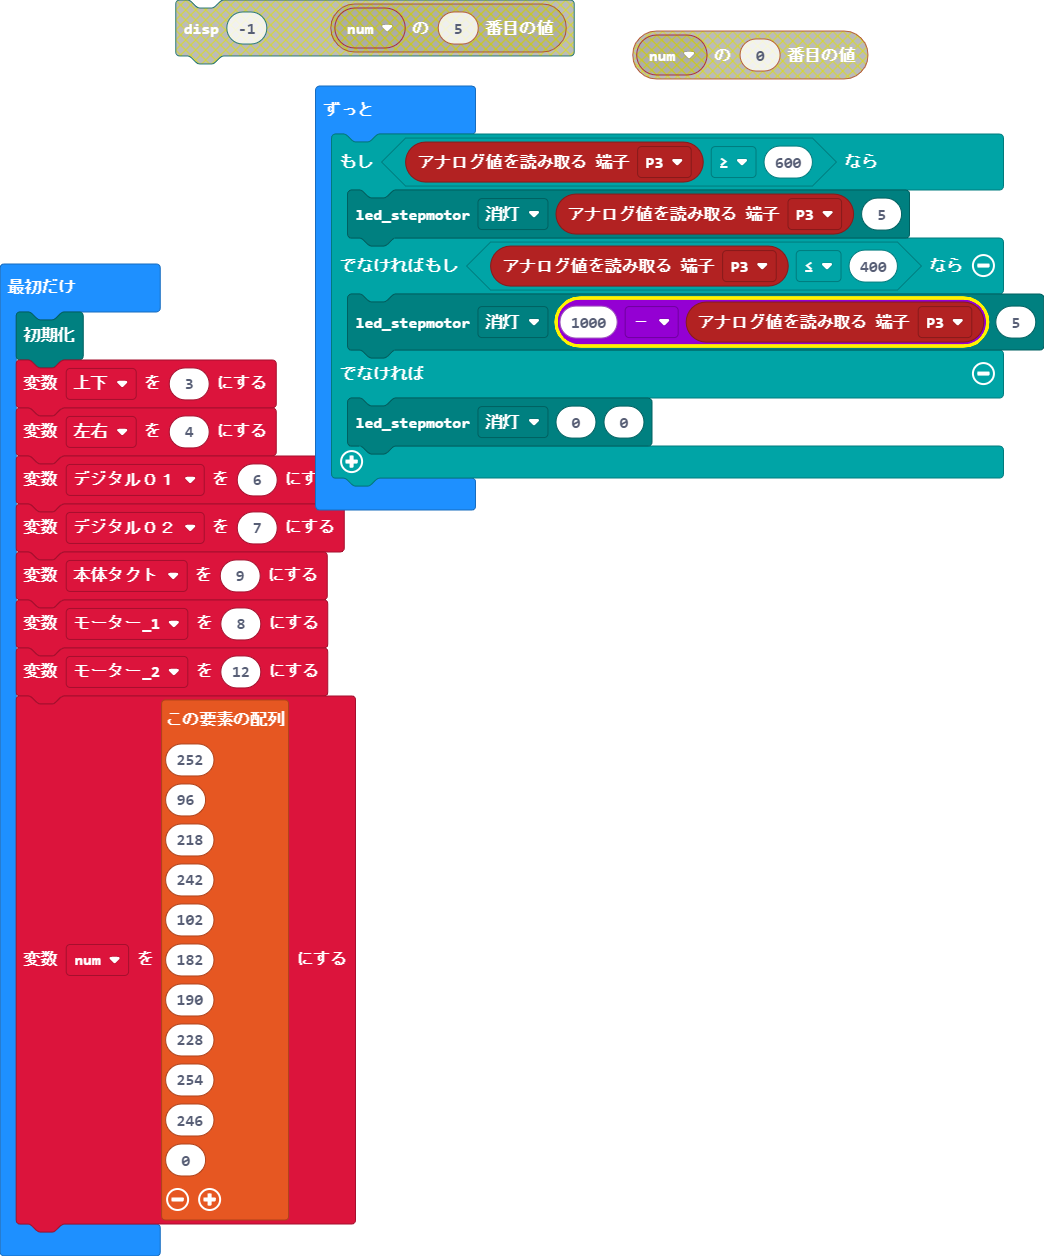
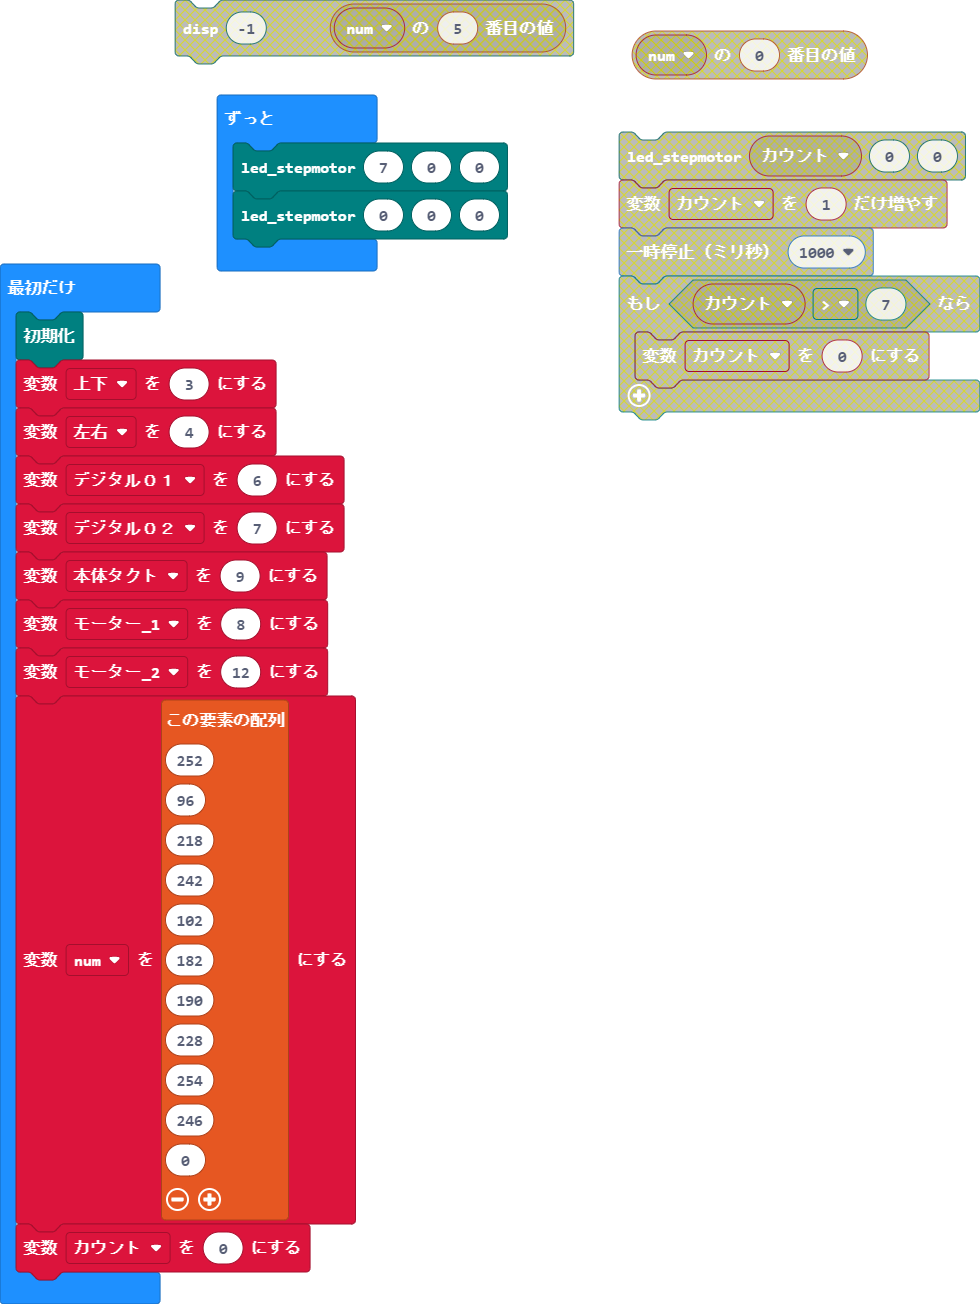
近畿大会用にアレンジ

Changed region(s): [[0.0, 0.0, 1.0, 1.0]]

diff --git a/custom.ts b/custom.ts
@@ -3,69 +3,7 @@
 * このファイルを使って、独自の関数やブロックを定義してください。
 * 詳しくはこちらを参照してください：https://makecode.microbit.org/blocks/custom
 */
-enum color_type {
-    //% block="消灯"
-    black,
-    //% block="赤"
-    red,
-    //% block="青"
-    blue,
-    //% block="緑"
-    green,
-    //% block="紫"
-    magenta,
-    //% block="水色"
-    cyan,
-    //% block="黄"
-    yellow,
-    //% block="白"
-    white
-}
 
-enum io {
-    //% block="デジタル０１"
-    digital01,
-    //% block="デジタル０２"
-    digital02,
-    //% block="アナログ０３"
-    analog03,
-    //% block="アナログ０４"
-    analog04,
-}
-enum out {
-    //% block="ON"
-    ON,
-    //% block="OFF"
-    OFF,
-    //% block="上"
-    UP,
-    //% block="下"
-    DOWN,
-}
-enum step_speed {
-    //% block="遅い"
-    low,
-    //% block="普通"
-    mid,
-    //% block="速い"
-    hi
-}
-enum step_dir {
-    //% block="正転"
-    cw,
-    //% block="逆転"
-    ccw
-}
-enum tone {
-    //% block="低音"
-    low,
-    //% block="中音"
-    mid,
-    //% block="高音"
-    hi,
-    //% block="無音"
-    no
-}
 let pre_led_value: number
 let pre_numeric: number
 let pre_FullLED_Value: number
@@ -102,136 +40,38 @@ namespace custom {
             pins.digitalReadPin(DigitalPin.P7)
         ])
         disp(-1, 0, 0)
-        led_stepmotor(color_type.black, 0, 0)
+        led_stepmotor(0, 0, 0)
 //        モーター(0)
 //        FullStep = 0
 //        Step = 0
     }
     //% block
-    export function 入力(i: number): any {
-        switch (i) {
-            case 1:
-                return pins.digitalReadPin(DigitalPin.P7)
-                break;
-            case 2:
-                return pins.digitalReadPin(DigitalPin.P6)
-                break;
-            case 3:
-                return pins.analogReadPin(AnalogPin.P4)
-                break;
-            case 4:
-                return pins.analogReadPin(AnalogPin.P3)
-                break;
-            case 5:
-                return pins.digitalReadPin(DigitalPin.P9)
-                break;       }
-    }
-    //% block
-    export function 出力(i: out): any {
-        switch (i) {
-            case out.ON:
-                return 0
-                break;
-            case out.OFF:
-                return 1
-                break;
-            case out.UP:
-                return 0
-                break;
-            case out.DOWN:
-                return 1
-                break;
-        }
-    }
-    //% block
-    export function フルカラーLED(c: color_type): void {
-        let FullLED_Value
-        switch (c) {
-            case color_type.black:
-                FullLED_Value = 0
-                break;
-            case color_type.red:
-                FullLED_Value = 8
-                break;
-            case color_type.blue:
-                FullLED_Value = 4
-                break;
-            case color_type.green:
-                FullLED_Value = 2
-                break;
-            case color_type.magenta:
-                FullLED_Value = 12
-                break;
-            case color_type.cyan:
-                FullLED_Value = 6
-                break;
-            case color_type.yellow:
-                FullLED_Value = 10
-                break;
-            case color_type.white:
-                FullLED_Value = 14
-                break;
-        }
-        //        FullStep = FullLED_Value + Step
-        if (FullLED_Value != pre_FullLED_Value) {
-            pins.digitalWritePin(DigitalPin.P15, 0)
-            let i = 1
-            for (let index = 0; index < 8; index++) {
-                let tmp = Math.trunc(FullLED_Value / i)
-                pins.digitalWritePin(DigitalPin.P14, tmp % 2)
-
-                //クロック発振
-                pins.digitalWritePin(DigitalPin.P13, 0)
-                basic.pause(1)
-                pins.digitalWritePin(DigitalPin.P13, 1)
-                basic.pause(1)
-
-                i = i * 2
-            }
-            pins.digitalWritePin(DigitalPin.P15, 1)
-            
-            for (let index = 0; index < 8; index++) {
-                pins.digitalWritePin(DigitalPin.P14, 0)
-                //クロック発振
-                pins.digitalWritePin(DigitalPin.P13, 0)
-                basic.pause(1)
-                pins.digitalWritePin(DigitalPin.P13, 1)
-                basic.pause(1)
-
-            }
-            pins.digitalWritePin(DigitalPin.P15, 1)
-
-        }
-        pre_FullLED_Value = FullLED_Value
-        pins.digitalWritePin(DigitalPin.P15, 1)
-    }
-    //% block
-    export function led_stepmotor(c: color_type, s: number,deg:number): void {
+    export function led_stepmotor(c: number, s: number,deg:number): void {
      //フルカラーＬＥＤ
         let FullLED_Value
         switch (c) {
-            case color_type.black:
+            case 0:
                 FullLED_Value = 0
                 break;
-            case color_type.red:
+            case 1:
                 FullLED_Value = 8
                 break;
-            case color_type.blue:
+            case 2:
                 FullLED_Value = 4
                 break;
-            case color_type.green:
+            case 3:
                 FullLED_Value = 2
                 break;
-            case color_type.magenta:
+            case 5:
                 FullLED_Value = 12
                 break;
-            case color_type.cyan:
+            case 6:
                 FullLED_Value = 6
                 break;
-            case color_type.yellow:
+            case 4:
                 FullLED_Value = 10
                 break;
-            case color_type.white:
+            case 7:
                 FullLED_Value = 14
                 break;
         }
@@ -306,38 +146,6 @@ namespace custom {
         }
     }
  
-    //% block
-    export function 音(m: tone): void {
-        switch (m) {
-            case tone.hi:
-                pins.analogSetPitchPin(AnalogPin.P0)
-                music.ringTone(698)
-                break;
-            case tone.mid:
-                pins.analogSetPitchPin(AnalogPin.P0)
-                music.ringTone(349)
-                break;
-            case tone.low:
-                pins.analogSetPitchPin(AnalogPin.P0)
-                music.ringTone(175)
-                break;
-            case tone.no:
-                music.stopAllSounds()
-                pins.setAudioPin(AnalogPin.P10)
-                break;
-        }
-    }
-
-    //% block
-    export function モニタ(): void {
-        serial.writeNumbers([
-            pins.analogReadPin(AnalogPin.P3),
-            pins.analogReadPin(AnalogPin.P4),
-            pins.digitalReadPin(DigitalPin.P6),
-            pins.digitalReadPin(DigitalPin.P7)
-        ])
-        basic.pause(1000)
-    }
     /**
      * TODO: describe your function here
      * @param value describe value here, eg: 5
@@ -360,20 +168,6 @@ namespace custom {
         pins.digitalWritePin(DigitalPin.P16, 1)
 
     }
-    //% block
-    export function モーター(value: number): void {
-        if (value == 0) {
-            pins.digitalWritePin(DigitalPin.P12, 0)
-            pins.digitalWritePin(DigitalPin.P8, 0)
-        } else if (value > 0) {
-            pins.digitalWritePin(DigitalPin.P8, 0)
-            pins.analogWritePin(AnalogPin.P12, value)
-        } else {
-            pins.digitalWritePin(DigitalPin.P12, 0)
-            pins.analogWritePin(AnalogPin.P8, Math.abs(value))
-        }
-    }
-
     //% block
     export function disp(numeric: number,led_l: number, led_r: number): void {
 
@@ -456,85 +250,5 @@ namespace custom {
             pre_numeric = 100
         }
         pre_led_value = led_value
-    }
-    //% block
-    export function セグメント数値(numeric: number): void {
-        let led_value
-        if (numeric >= 100) {
-            numeric = 99
-        }
-        let led_l = Math.floor(numeric / 10)
-
-        switch (led_l) {
-            case 0:
-                led_value = 0
-                break;
-            case 1:
-                led_value = 96
-                break;
-            case 2:
-                led_value = 218
-                break;
-            case 3:
-                led_value = 242
-                break;
-            case 4:
-                led_value = 102
-                break;
-            case 5:
-                led_value = 182
-                break;
-            case 6:
-                led_value = 190
-                break;
-            case 7:
-                led_value = 228
-                break;
-            case 8:
-                led_value = 254
-                break;
-            case 9:
-                led_value = 246
-                break;
-        }
-        let led_r = numeric % 10
-        switch (led_r) {
-            case 0:
-                led_value += 252 * 256
-                break;
-            case 1:
-                led_value += 96 * 256
-                break;
-            case 2:
-                led_value += 218 * 256
-                break;
-            case 3:
-                led_value += 242 * 256
-                break;
-            case 4:
-                led_value += 102 * 256
-                break;
-            case 5:
-                led_value += 182 * 256
-                break;
-            case 6:
-                led_value += 190 * 256
-                break;
-            case 7:
-                led_value += 228 * 256
-                break;
-            case 8:
-                led_value += 254 * 256
-                break;
-            case 9:
-                led_value += 246 * 256
-                break;
-        }
-        if (numeric != pre_numeric) {
-            serial_init(led_value)
-        }
-        pre_numeric = numeric
-        pre_led_value = led_value
-
     }
 }

diff --git a/main.ts b/main.ts
@@ -19,12 +19,8 @@ let num = [
 246,
 0
 ]
+let カウント = 0
 basic.forever(function () {
-    if (pins.analogReadPin(AnalogPin.P3) >= 600) {
-        custom.led_stepmotor(color_type.black, pins.analogReadPin(AnalogPin.P3), 5)
-    } else if (pins.analogReadPin(AnalogPin.P3) <= 400) {
-        custom.led_stepmotor(color_type.black, 1000 - pins.analogReadPin(AnalogPin.P3), 5)
-    } else {
-        custom.led_stepmotor(color_type.black, 0, 0)
-    }
+    custom.led_stepmotor(7, 0, 0)
+    custom.led_stepmotor(0, 0, 0)
 })
